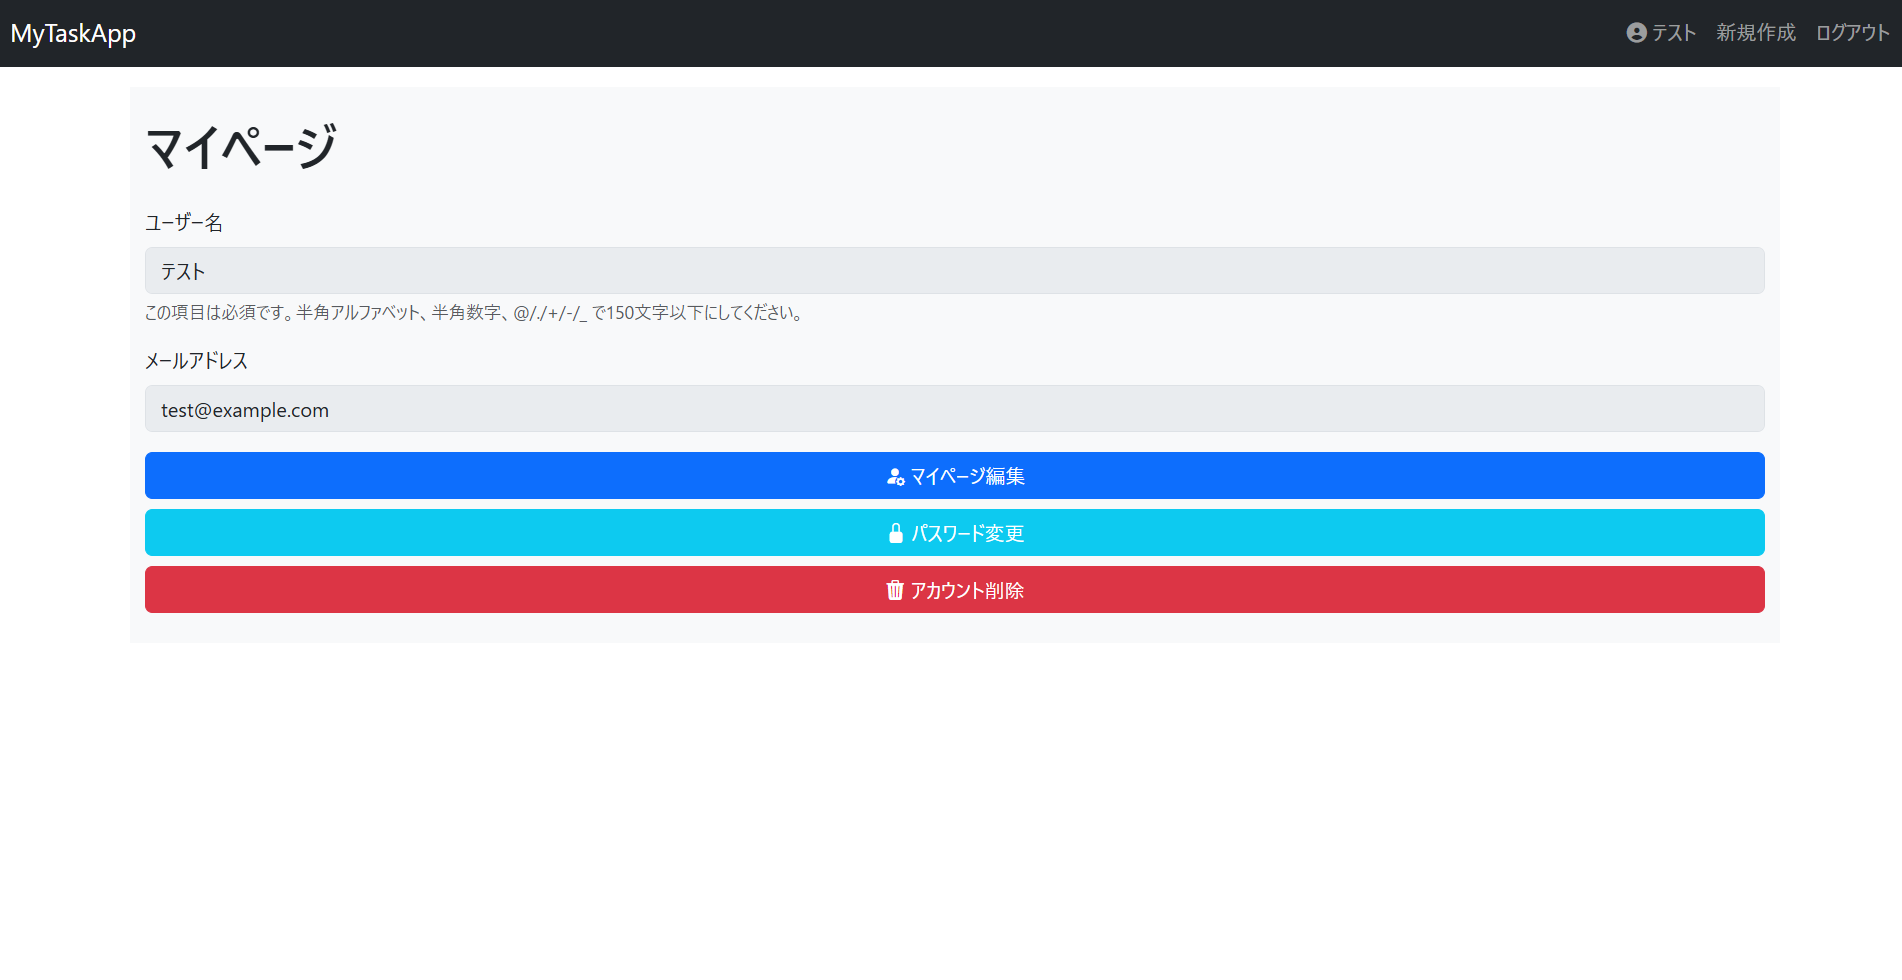
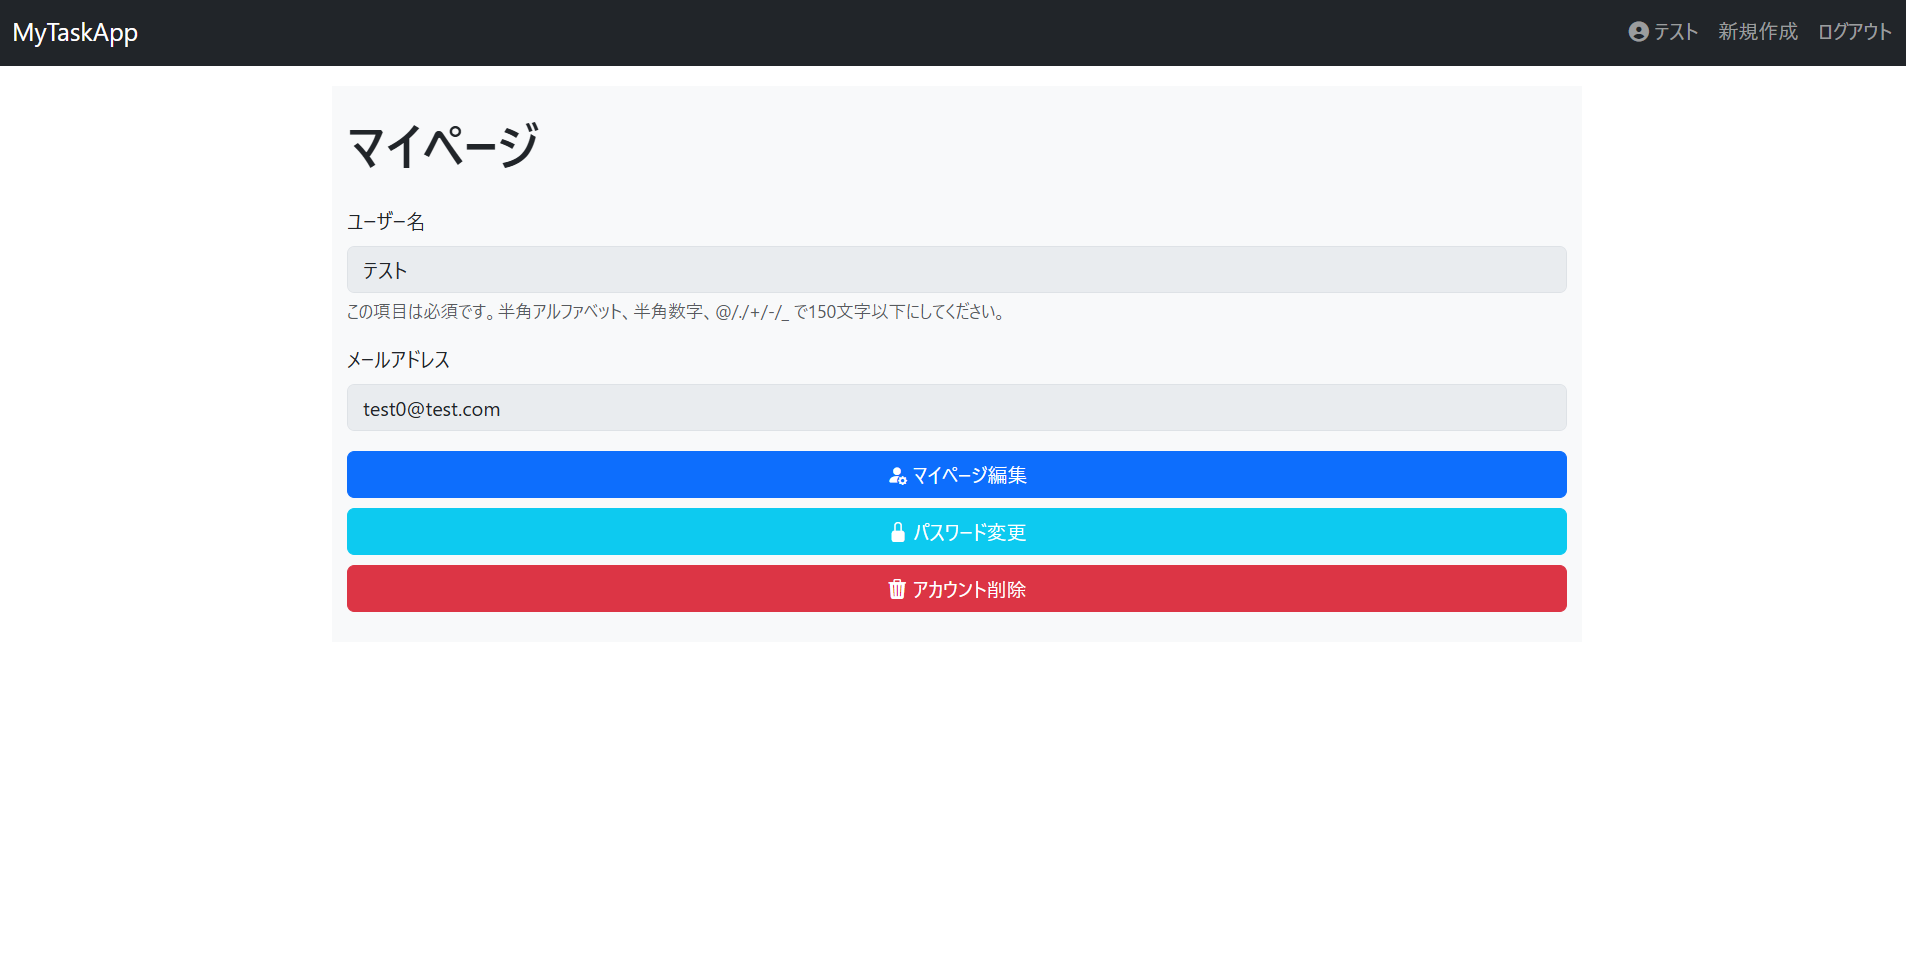
feat:リファクタリング、画面UI/UXの修正

diff --git a/todos/templates/todos/index.html b/todos/templates/todos/index.html
@@ -2,6 +2,7 @@
 {% block title %}タスク一覧{% endblock %}
 
 {% block content %}
+{% load widget_tweaks %}
   <h1 class="mb-4">タスク一覧</h1>
 
 <!-- 検索機能 -->
@@ -10,11 +11,8 @@
   </h5>
 
   <div class="collapse" id="collapseSearch">
-    <form method="get">
-      <div class="mb-3">
-        <label for="id_title" class="form-label">タスク名</label>
-        {{ form.title }}
-      </div>
+    <form id="searchForm" method="get">
+      {% include "partials/form_row.html" with field=form.title label="タスク名" %}
       <div class="mb-3">
         <label for="id_status" class="form-label">タスク状態</label>
         {{ form.status }}
@@ -29,31 +27,27 @@
             {{ form.importance }}
         </div>
       </div>
-      <div>
-        <div class="mb-3">
-          <label for="id_updated_at" class="form-label">更新日時：</label>
-          {{ form.updated_from }} ～ {{ form.updated_to }}
-        </div>
-        <div class="mb-3">
-          <label for="id_created_at" class="form-label">作成日時：</label>
-          {{ form.created_from }} ～ {{ form.created_to }}
-        </div>
+      <div class="d-flex flex-wrap align-items-center mb-3">
+        <label for="id_updated_at" class="form-label">更新日時：</label>
+        {{ form.updated_from|add_class:"form-control w-auto" }}<span class="mx-1">～</span>{{ form.updated_to|add_class:"form-control w-auto" }}
       </div>
-      <div>
-        <div class="mb-3">
-          <label for="id_due_date" class="form-label">締切日時：</label>
-          {{ form.due_date_from }} ～ {{ form.due_date_to }}
-        </div>
-        <div class="mb-3">
-          <label for="id_completed_at" class="form-label">完了日時：</label>
-          {{ form.completed_from }} ～ {{ form.completed_to }}
-        </div>
+      <div class="d-flex flex-wrap align-items-center mb-3">
+        <label for="id_created_at" class="form-label">作成日時：</label>
+        {{ form.created_from|add_class:"form-control w-auto" }}<span class="mx-1">～</span>{{ form.created_to|add_class:"form-control w-auto" }}
+      </div>
+      <div class="d-flex flex-wrap align-items-center mb-3">
+        <label for="id_due_date" class="form-label">締切日時：</label>
+        {{ form.due_date_from|add_class:"form-control w-auto" }}<span class="mx-1">～</span>{{ form.due_date_to|add_class:"form-control w-auto" }}
+      </div>
+      <div class="d-flex flex-wrap align-items-center mb-3">
+        <label for="id_completed_at" class="form-label">完了日時：</label>
+        {{ form.completed_from|add_class:"form-control w-auto" }}<span class="mx-1">～</span>{{ form.completed_to|add_class:"form-control w-auto" }}
       </div>
 
       <div class="action-buttons align-self-center pb-2 mb-2">
         <div class="d-flex gap-2 align-items-center">
           <button type="submit" name="action" value="search" class="btn btn-info"><i class="bi bi-search"></i> 検索</button>
-          <button type="submit" name="action" value="clear" class="btn btn-secondary" formnovalidate><i class="bi bi-x-circle"></i> クリア</button>
+          <button type="button" name="action" value="clear" class="btn btn-secondary" onclick="resetForm()" formnovalidate><i class="bi bi-x-circle"></i> クリア</button>
         </div>
       </div>
     </form>
@@ -67,7 +61,7 @@
   {% if todos %}
     <div class="todo-list">
       {% for todo in todos %}
-        <div class="card mb-3 shadow-sm mb-1" id="todo-{{ todo.id }}">
+        <div class="card mb-3 shadow-sm mb-1 {% if todo.status == 1 %} todo-completed {% endif %}" id="todo-{{ todo.id }}">
           <div class="card-body py-2">
             <!-- タスク名＋ボタン -->
             <div class="d-flex justify-content-between align-items-start index-border-bottom pb-2 mb-1">

diff --git a/users/templates/registration/password_reset_confirm.html b/users/templates/registration/password_reset_confirm.html
@@ -6,13 +6,20 @@
 <h1 class="mb-4">パスワード再設定</h1>
 <h2 class="mb-4">新しいパスワードを入力してください。</h2>
 
-<form method="post">
-    {% csrf_token %}
-    {% include "partials/form_row.html" with field=form.new_password1 label="パスワード" %}
-    {% include "partials/form_row.html" with field=form.new_password2 label="パスワード（確認用）" %}
-    <div class="d-flex gap-2">
-        <button type="submit" class="btn btn-primary"><i class="fas fa-paper-plane"></i> 送信</button>
-        <a href="{% url 'login' %}" class="btn btn-secondary"><i class="fas fa-chevron-left"></i> ログイン画面に戻る</a>
+{% if form %}
+    <form method="post">
+        {% csrf_token %}
+        {% include "partials/form_row.html" with field=form.new_password1 label="パスワード" %}
+        {% include "partials/form_row.html" with field=form.new_password2 label="パスワード（確認用）" %}
+        <div class="d-flex gap-2">
+            <button type="submit" class="btn btn-primary"><i class="fas fa-paper-plane"></i> 送信</button>
+            <a href="{% url 'login' %}" class="btn btn-secondary"><i class="fas fa-chevron-left"></i> ログイン画面に戻る</a>
+        </div>
+    </form>
+{% else %}
+    <div class="alert alert-danger">
+        <i class='bi bi-check-circle-fill'></i> このリンクは無効です。再度パスワード再発行を行ってください。
     </div>
-</form>
+    <a href="{% url 'password_reset' %}" class="btn btn-primary mt-2"><i class="fa fa-envelope"></i> 再発行ページへ</a>
+{% endif %}
 {% endblock %}

diff --git a/todos/templates/todos/create.html b/todos/templates/todos/create.html
@@ -6,26 +6,22 @@
 
 <form method="post">
     {% csrf_token %}
-    <div class="mb-3">
-        <label for="id_title" class="form-label">タスク名</label>
-        {{ form.title }}
-    </div>
-    <div class="mb-3">
-        <label for="id_urgency" class="form-label">緊急度</label>
-        {{ form.urgency }}
-    </div>
-    <div class="mb-3">
-        <label for="id_importance" class="form-label">重要度</label>
-        {{ form.importance }}
+    {% include "partials/form_row.html" with field=form.title label="タスク名" required=True %}
+    <div class="d-flex flex-wrap mb-3">
+        <div class="me-3">
+            <label for="id_urgency" class="form-label">緊急度</label>
+            {{ form.urgency }}
+        </div>
+        <div class="me-3">
+            <label for="id_importance" class="form-label">重要度</label>
+            {{ form.importance }}
+        </div>
     </div>
     <div class="mb-3">
         <label for="id_target_value" class="form-label">目標値</label>
         {{ form.target_value }}
     </div>
-    <div class="mb-3">
-        <label for="id_target_unit" class="form-label">目標単位</label>
-        {{ form.target_unit }}
-    </div>
+    {% include "partials/form_row.html" with field=form.target_unit label="目標単位" %}
     <div class="mb-3">
         <label for="id_actual_value" class="form-label">実績値</label>
         {{ form.actual_value }}

diff --git a/todos/templates/todos/update.html b/todos/templates/todos/update.html
@@ -6,26 +6,22 @@
 
 <form method="post">
     {% csrf_token %}
-    <div class="mb-3">
-        <label for="id_title" class="form-label">タスク名</label>
-        {{ form.title }}
-    </div>
-    <div class="mb-3">
-        <label for="id_urgency" class="form-label">緊急度</label>
-        {{ form.urgency }}
-    </div>
-    <div class="mb-3">
-        <label for="id_importance" class="form-label">重要度</label>
-        {{ form.importance }}
+    {% include "partials/form_row.html" with field=form.title label="タスク名" required=True %}
+    <div class="d-flex flex-wrap mb-3">
+        <div class="me-3">
+            <label for="id_urgency" class="form-label">緊急度</label>
+            {{ form.urgency }}
+        </div>
+        <div class="me-3">
+            <label for="id_importance" class="form-label">重要度</label>
+            {{ form.importance }}
+        </div>
     </div>
     <div class="mb-3">
         <label for="id_target_value" class="form-label">目標値</label>
         {{ form.target_value }}
     </div>
-    <div class="mb-3">
-        <label for="id_target_unit" class="form-label">目標単位</label>
-        {{ form.target_unit }}
-    </div>
+    {% include "partials/form_row.html" with field=form.target_unit label="目標単位" %}
     <div class="mb-3">
         <label for="id_actual_value" class="form-label">実績値</label>
         {{ form.actual_value }}

diff --git a/static/main.js b/static/main.js
@@ -1,0 +1,26 @@
+// 一覧画面の検索ボタン押下時、モーダルを開いたままにする
+document.addEventListener("DOMContentLoaded", function() {
+    const urlParams = new URLSearchParams(window.location.search);
+    // action=searchがURLにあればモーダルを開く
+    if (urlParams.get("action") === "search") {
+        const searchCollapse = document.getElementById("collapseSearch");
+        searchCollapse.classList.add("show");
+        }
+    });
+
+// 一覧画面のクリアボタン押下時に、入力内容のみクリアし、モーダルを閉じないようにする
+function resetForm() {
+    const form = document.getElementById("searchForm");
+    form.reset();
+
+    form.querySelectorAll("input, select").forEach(el => {
+      if (el.type !== "submit" && el.type !== "button") {
+        el.value = "";
+      }
+    });
+
+    // action=searchをURLから除外する
+    const url = new URL(window.location);
+    url.searchParams.delete("action");
+    history.replaceState({}, document.title, url);
+}

diff --git a/users/templates/registration/signup.html b/users/templates/registration/signup.html
@@ -11,12 +11,12 @@
     {% include "partials/form_row.html" with field=form.email label="メールアドレス" %}
     {% include "partials/form_row.html" with field=form.password1 label="パスワード" %}
     {% include "partials/form_row.html" with field=form.password2 label="パスワード（確認用）" %}
-    <div class="d-flex gap-2">
-        <button type="submit" class="btn btn-primary"><i class="fa-solid fa-user-plus"></i> 登録</button>
+    <div class="d-flex gap-2 align-items-center">
+        <button type="submit" class="btn btn-primary"><i class="fa-solid fa-user-plus"></i>登録</button>
     </div>
-    <div class="d-flex gap-2">
+    <div class="d-flex align-items-center pt-2">
         <div>アカウントをお持ちの場合：</div>
-        <a href="{% url 'login' %}" class="btn btn-link"> ログイン</a>
+        <a href="{% url 'login' %}" class="btn btn-link ps-0">ログイン</a>
     </div>
 </form>
 {% endblock %}

diff --git a/users/templates/registration/login.html b/users/templates/registration/login.html
@@ -12,13 +12,13 @@
     <div class="d-flex gap-2">
         <button type="submit" class="btn btn-primary"><i class="fa-solid fa-right-to-bracket"></i> ログイン</button>
     </div>
-    <div class="d-flex gap-2">
+    <div class="d-flex align-items-center pt-2">
         <div>パスワードを忘れた場合：</div>
-        <a href="{% url 'password_reset' %}" class="btn btn-link"> こちら</a>
+        <a href="{% url 'password_reset' %}" class="btn btn-link ps-0">こちら</a>
     </div>
-    <div class="d-flex gap-2">
+    <div class="d-flex align-items-center">
         <div>アカウントをお持ちでない場合：</div>
-        <a href="{% url 'signup' %}" class="btn btn-link"> 新規登録</a>
+        <a href="{% url 'signup' %}" class="btn btn-link ps-0">新規登録</a>
     </div>
 </form>
 {% endblock %}

diff --git a/templates/base.html b/templates/base.html
@@ -17,7 +17,6 @@
   <link rel="stylesheet" href="{% static 'style.css' %}">
 </head>
 <body>
-
   <!-- ナビゲーションバー -->
   <nav class="navbar navbar-expand-md navbar-dark bg-dark">
     <div class="container-fluid">
@@ -96,5 +95,7 @@
 
   <!-- Bootstrap JS -->
   <script src="https://cdn.jsdelivr.net/npm/bootstrap@5.3.0/dist/js/bootstrap.bundle.min.js" integrity="sha384-geWF76RCwLtnZ8qwWowPQNguL3RmwHVBC9FhGdlKrxdiJJigb/j/68SIy3Te4Bkz" crossorigin="anonymous"></script>
+  <!-- カスタムJS -->
+  <script src="{% static 'main.js' %}"></script>
 </body>
 </html>

diff --git a/users/templates/registration/password_reset_form.html b/users/templates/registration/password_reset_form.html
@@ -1,9 +1,9 @@
 {% extends 'base.html' %}
-{% block title %}パスワード再発行フォーム{% endblock %}
+{% block title %}パスワード再発行{% endblock %}
 
 {% block content %}
 {% load widget_tweaks %}
-<h1 class="mb-4">パスワード再発行フォーム</h1>
+<h1 class="mb-4">パスワード再発行</h1>
 <h2 class="mb-4">パスワードをリセットするメールアドレスを入力してください。</h2>
 
 <form method="post">

diff --git a/templates/partials/form_row.html b/templates/partials/form_row.html
@@ -1,6 +1,6 @@
 {% load widget_tweaks %}
 <div class="mb-3">
-  <label for="id_{{ field.name }}" class="form-label">{{ label }}</label>
+  <label for="id_{{ field.name }}" class="form-label">{{ label }} {% if required %}<span class="text-danger">*</span>{% endif %}</label>
   <!-- readonlyがTrueのときフォームを編集不可にする -->
   {% if readonly %}
     {{ field|add_class:"form-control"|attr:"disabled:true" }}

diff --git a/users/templates/registration/password_reset_done.html b/users/templates/registration/password_reset_done.html
@@ -3,6 +3,6 @@
 
 {% block content %}
 {% load widget_tweaks %}
-<h1 class="mb-4">パスワード再発行メール送信完了</h1>
+<h1 class="mb-4">パスワード再発行メールを送信しました。</h1>
 <a href="{% url 'login' %}" class="btn btn-secondary"><i class="fas fa-chevron-left"></i> ログイン画面に戻る</a>
 {% endblock %}

diff --git a/static/style.css b/static/style.css
@@ -1,3 +1,13 @@
+/* PC画面のサイズ調整 */
+main.container {
+  max-width: 1000px;
+}
+
+/* 完了したものは背景をグレーにする */
+.todo-completed{
+  background-color: #e0e0e0;
+}
+
 /* 詳細情報の日付の幅の最小値 */
 .detail-info-min-width {
     min-width: 200px;
